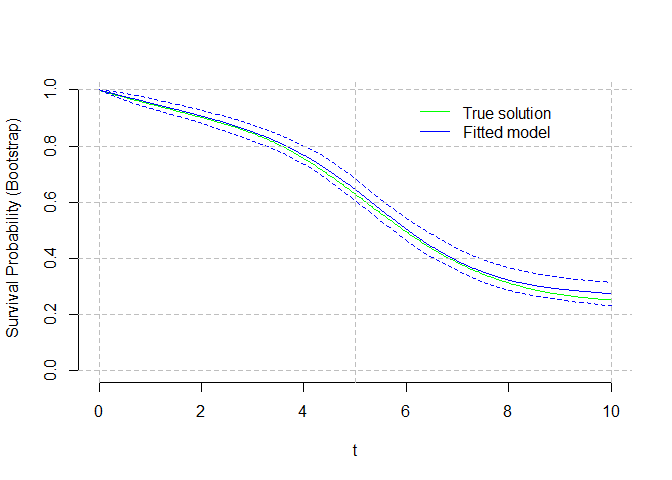
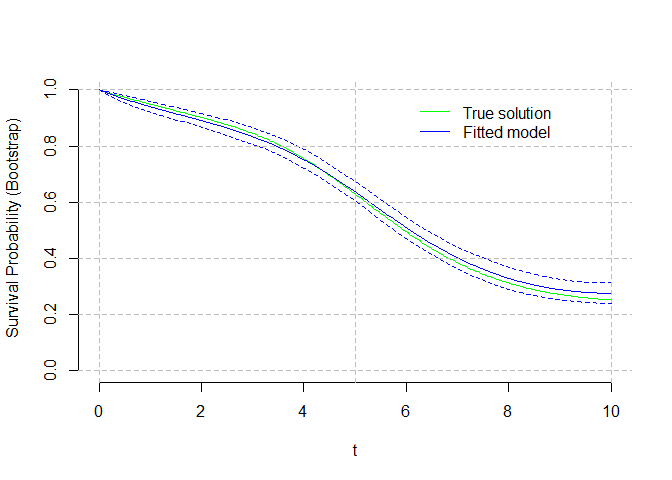
Adding modularity

diff --git a/README.md b/README.md
@@ -74,23 +74,23 @@ hist( SimDat$time[ which(SimDat$status==0)], main="", xlab="t", breaks="Freedman
    # Result = hspcore(yd=SimDat, ORDER=4, knots=c(0,1,3,6,10), time=timeout, Bootstrap = 120, verbose=FALSE )   
    Result = hspcore(yd=SimDat, ORDER=4, Exterior.knots = c(0,10), Interior.knots=NULL, SelectBestKnots = TRUE, time=timeout, Bootstrap = 200, verbose=FALSE )  
 #> [1] "Automatic search for K the number of interior knots of the B-spline hazard function"
-#> [1] "K=0, m2loglik=279.78, DOF=4, AICc=287.92, knots= 0 10"
-#> [1] "K=1, m2loglik=277.87, DOF=5, AICc=288.07, knots= 0 4.9 10"
-#> [1] "K=2, m2loglik=271.08, DOF=6, AICc=283.36, knots= 0 4 6 10"
-#> [1] "K=3, m2loglik=270.38, DOF=7, AICc=284.76, knots= 0 3.3 4.9 6.4 10"
-#> [1] "K=4, m2loglik=270.14, DOF=8, AICc=286.63, knots= 0 2.9 4.3 5.5 6.6 10"
-#> [1] "K=5, m2loglik=268.59, DOF=9, AICc=287.21, knots= 0 2.5 4 4.9 6 7 10"
-#> [1] "K=6, m2loglik=266.8, DOF=10, AICc=287.56, knots= 0 2 3.6 4.5 5.4 6.2 7.1 10"
-#> [1] "K=7, m2loglik=266.07, DOF=11, AICc=288.98, knots= 0 1.7 3.3 4.2 4.9 5.7 6.4 7.1 10"
-#> [1] "K=8, m2loglik=265.1, DOF=12, AICc=290.18, knots= 0 1.5 3 4 4.6 5.3 6 6.5 7.2 10"
-#> [1] "K=9, m2loglik=265.16, DOF=13, AICc=292.43, knots= 0 1.4 2.9 3.7 4.3 4.9 5.5 6.1 6.6 7.2 10"
-#> [1] "K=10, m2loglik=264.43, DOF=14, AICc=293.9, knots= 0 1.3 2.7 3.5 4.1 4.8 5.3 5.7 6.3 6.8 7.3 10"
-#> [1] "K=11, m2loglik=263.18, DOF=15, AICc=294.87, knots= 0 1.2 2.5 3.3 4 4.3 4.9 5.4 6 6.4 7 7.5 10"
-#> [1] "K=12, m2loglik=262.19, DOF=16, AICc=296.1, knots= 0 1.2 2.3 3.1 3.7 4.2 4.8 5.3 5.6 6.1 6.4 7 7.5 10"
-#> [1] "K=13, m2loglik=260.18, DOF=17, AICc=296.35, knots= 0 1 2 2.9 3.6 4.1 4.5 4.9 5.4 5.8 6.2 6.5 7.1 7.6 10"
-#> [1] "K=14, m2loglik=258.9, DOF=18, AICc=297.33, knots= 0 0.9 1.9 2.9 3.4 4 4.3 4.8 5.3 5.5 6 6.3 6.6 7.1 7.7 10"
+#> [1] "K=0, m2loglik=293.04, DOF=4, AICc=301.17, knots= 0 10"
+#> [1] "K=1, m2loglik=290.52, DOF=5, AICc=300.73, knots= 0 4.8 10"
+#> [1] "K=2, m2loglik=287.94, DOF=6, AICc=300.23, knots= 0 3.8 5.7 10"
+#> [1] "K=3, m2loglik=286.12, DOF=7, AICc=300.5, knots= 0 3.1 4.8 6.4 10"
+#> [1] "K=4, m2loglik=285.62, DOF=8, AICc=302.12, knots= 0 2.5 4.2 5.5 6.7 10"
+#> [1] "K=5, m2loglik=285.12, DOF=9, AICc=303.74, knots= 0 2.1 3.8 4.8 5.7 6.9 10"
+#> [1] "K=6, m2loglik=284.82, DOF=10, AICc=305.58, knots= 0 1.6 3.6 4.3 5.2 6.1 7.3 10"
+#> [1] "K=7, m2loglik=284.56, DOF=11, AICc=307.47, knots= 0 1.4 3.1 4 4.8 5.6 6.4 7.4 10"
+#> [1] "K=8, m2loglik=284.59, DOF=12, AICc=309.68, knots= 0 1.2 2.8 3.8 4.6 5.1 5.7 6.6 7.6 10"
+#> [1] "K=9, m2loglik=284.46, DOF=13, AICc=311.72, knots= 0 1.2 2.5 3.7 4.2 4.8 5.5 5.9 6.7 7.8 10"
+#> [1] "K=10, m2loglik=283.64, DOF=14, AICc=313.1, knots= 0 1 2.4 3.4 4 4.7 5.1 5.6 6.2 6.8 7.8 10"
+#> [1] "K=11, m2loglik=284.06, DOF=15, AICc=315.74, knots= 0 0.9 2.1 3.1 3.8 4.3 4.8 5.3 5.7 6.4 6.9 7.8 10"
+#> [1] "K=12, m2loglik=283.47, DOF=16, AICc=317.39, knots= 0 0.8 1.7 3 3.7 4.1 4.7 5.1 5.5 5.9 6.5 7.1 7.9 10"
+#> [1] "K=13, m2loglik=278.61, DOF=17, AICc=314.77, knots= 0 0.7 1.6 2.6 3.6 3.9 4.3 4.8 5.2 5.7 6.1 6.7 7.3 8 10"
+#> [1] "K=14, m2loglik=282.34, DOF=18, AICc=320.77, knots= 0 0.7 1.4 2.5 3.3 3.8 4.2 4.7 5 5.5 5.7 6.2 6.7 7.4 8 10"
 #> [1] "SEARCH RESULT: We use 2 interior B-spline knots"
-#> [1] "K= 2 DOF= 6 knots= 0 4 6 10"
+#> [1] "K= 2 DOF= 6 knots= 0 3.8 5.7 10"
 #> [1] "Variance estimation using bootstrap"
 ```
 
